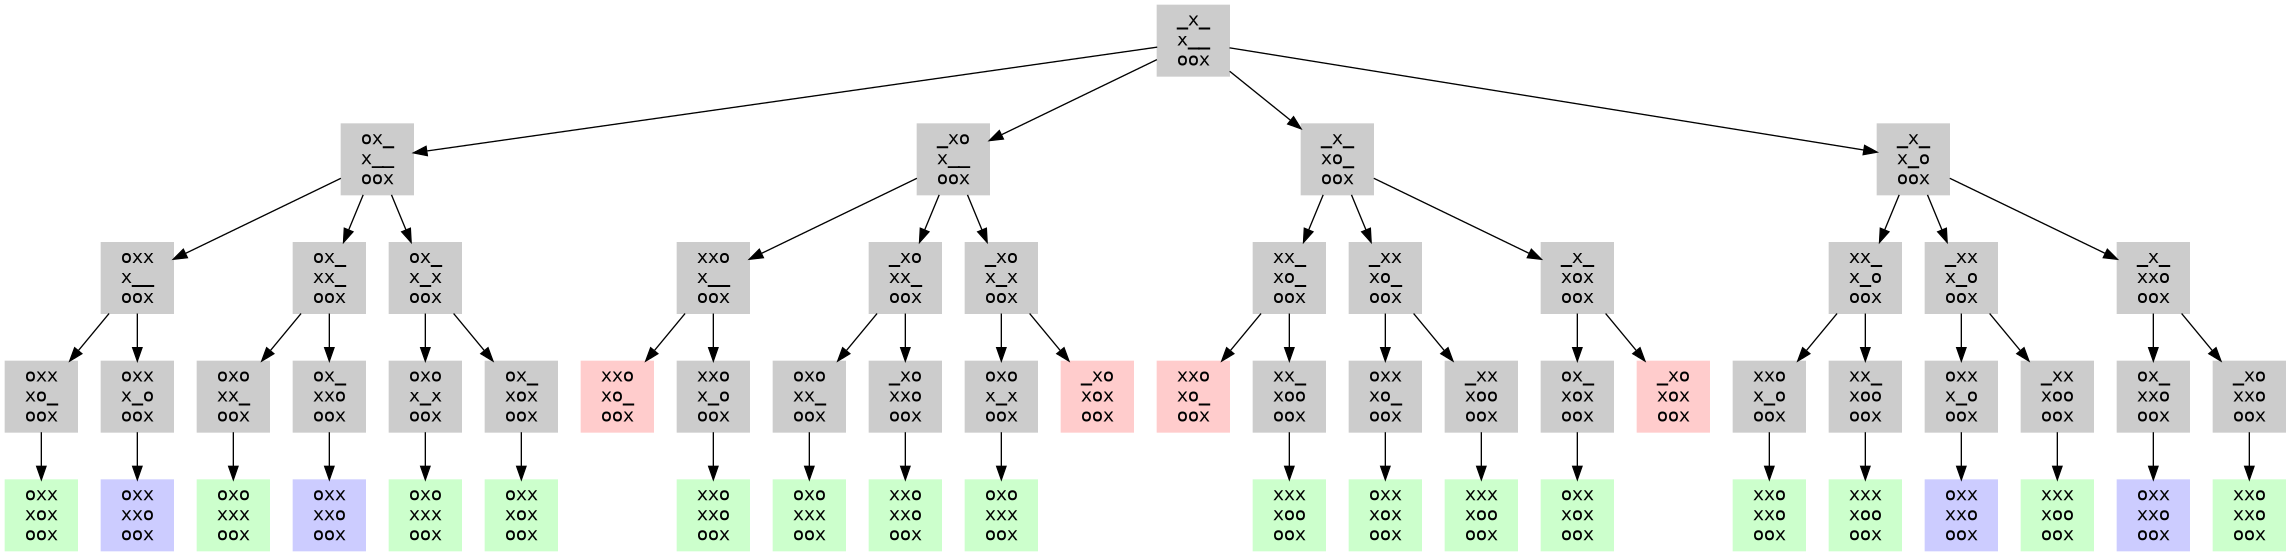
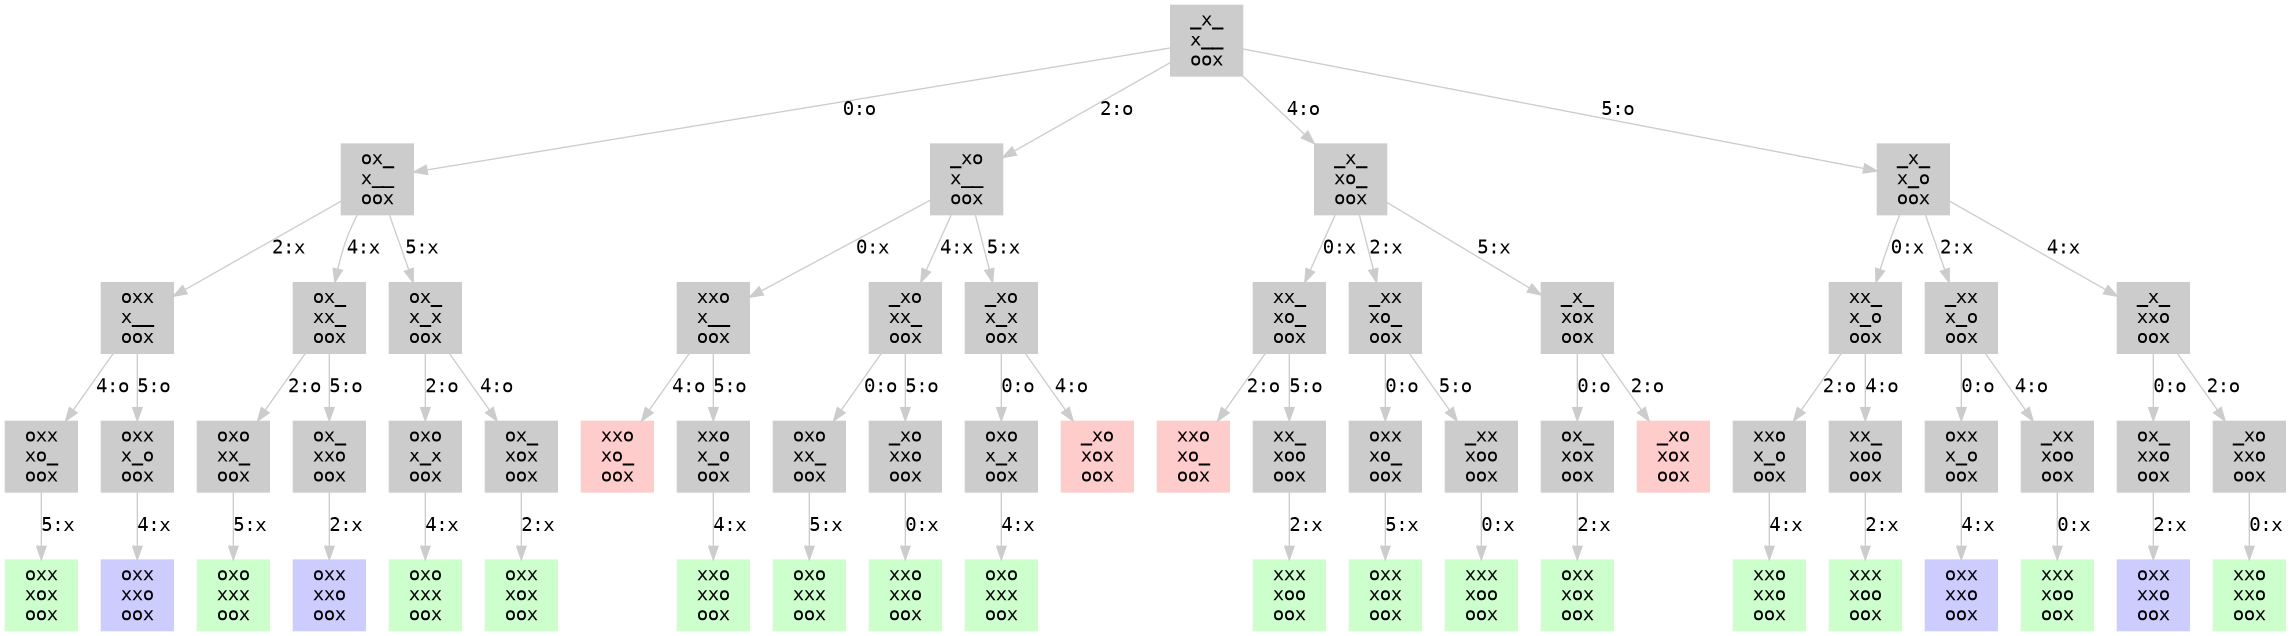
Improves TicTacToe aesthetics

diff --git a/reinforcement/tictactoe.py b/reinforcement/tictactoe.py
@@ -35,10 +35,10 @@ class State:
         self.status = status
         self.children = []
 
-    def add_child(self, state):
+    def add_child(self, state, position, player):
         """
         """
-        self.children.append(state)
+        self.children.append([state, position, player])
 
 def empty_positions(state):
     """
@@ -95,22 +95,28 @@ def print_dot():
     """
     """
     print("digraph {")
-    print("fontname=\"Monospace\"")
-    print("node [shape=box,fontname=\"Monospace\",style=filled]")
-    print("")
+    print("  fontname=\"Monospace\"")
+    print("  node [shape=box,fontname=\"Monospace\",style=filled]")
+    print("  edge [fontname=\"Monospace\",color=\"#cccccc\"]")
     for k in STATES:
-        print("{} [label=\"{}\\n{}\\n{}\",\
-                   color=\"{}\"]".format(k,
-                                         STATES[k].state[:3],
-                                         STATES[k].state[3:6],
-                                         STATES[k].state[6:],
-                                         COLOR[STATES[k].status]))
+        line1 = STATES[k].state[:3]
+        line2 = STATES[k].state[3:6]
+        line3 = STATES[k].state[6:]
+        status = COLOR[STATES[k].status]
+        print("  {} [label=\"{}\\n{}\\n{}\",color=\"{}\"]".format(k,
+                                                                  line1,
+                                                                  line2,
+                                                                  line3,
+                                                                  status))
     for k in STATES:
-        for d in STATES[k].children:
-            print("{} -> {}".format(k, d))
+        for state, position, player in STATES[k].children:
+            print("  {} -> {} [label=\"{}:{}\"]".format(k,
+                                                       state,
+                                                       position,
+                                                       player))
     print("}")
 
-def search(state, player, root=0):
+def search(state, player, root=0, position=None):
     """
     """
     global COUNT
@@ -119,12 +125,12 @@ def search(state, player, root=0):
     status = verify_status(state)
     STATES[count] = State(count, state, status)
     if root > 0:
-        STATES[root].add_child(count)
+        STATES[root].add_child(count, position, change_player(player))
     if status == EMPTY:
         for p in empty_positions(state):
             state[p] = player
             player = change_player(player)
-            search(state, player, count)
+            search(state, player, count, p)
             state[p] = '_'
             player = change_player(player)
 
